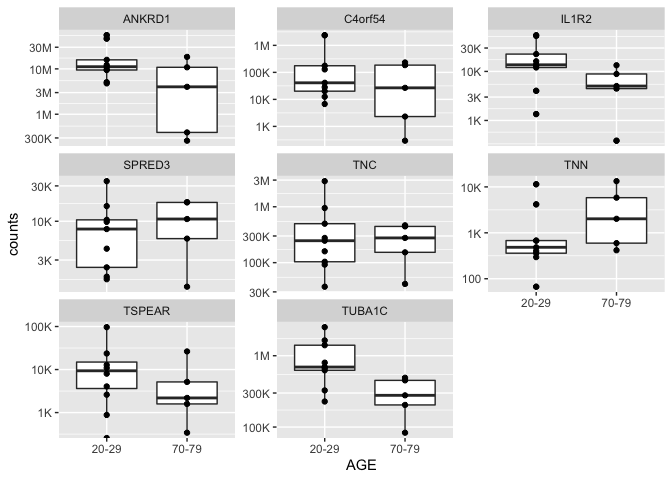
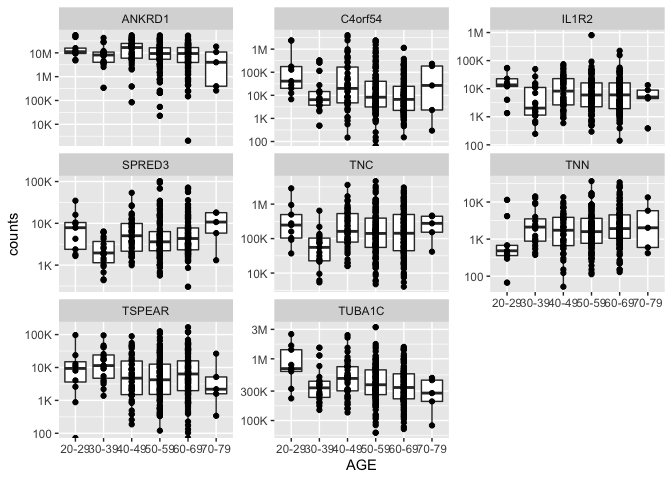
working join

diff --git a/GTEx/r4rnaseq-workshop.md b/GTEx/r4rnaseq-workshop.md
@@ -106,26 +106,69 @@ primarily for molecular assays including WGS, WES, and RNA-Seq.
 2.  Navigate to the GTEx folder.
 3.  Click `GTEx.Rproj` and click “Yes” to open up an Rproject. This will
     set the working directory to `~/GTEx/`.
-4.  Open the `r4rnaseq-workshop.R` file which contains all the commands
-    for today’s workshop. This contains all the commands we will build
-    today. This is your reference.
-5.  Open a new R Script by clicking **File > New File > R Script**. You
-    will type most commands for today’s lesson here and click “Run” to
-    send them to the console.
+4.  If you open the `r4rnaseq-workshop.R` file which contains all the
+    commands for today’s workshop, you can click through this and all
+    the commands should run successfully.
+5.  If you open a new R Script by clicking **File > New File > R
+    Script**, you can code along by typing out all the commands for
+    today’s lesson as I type them.
+
+Click “Run” to send commands from a script to the console or click
+command enter.
+
+### R is a calculator
+
+You can perform simple and advanced calculations in R.
+
+``` r
+2 + 2 * 100
+```
+
+    ## [1] 202
+
+``` r
+log(202)
+```
+
+    ## [1] 5.308268
+
+You can save variable and recall them later.
+
+``` r
+pval <- 0.05
+pval
+```
+
+    ## [1] 0.05
+
+``` r
+-log10(pval)
+```
+
+    ## [1] 1.30103
+
+You can save really long lists of things with a short, descriptive names
+that are easy to recall later.
+
+``` r
+favorite_genes <- c("BRCA1", "POMC", "GnRH", "MC4R", "FOS", "CNR1")
+favorite_genes
+```
+
+    ## [1] "BRCA1" "POMC"  "GnRH"  "MC4R"  "FOS"   "CNR1"
 
 ### Loading R packages
 
 Many of the functions we will use are pre-installed. The
-[**Tidyverse**](https://www.tidyverse.org/) is a collection of R
-packages that include functions, data, and documentation that provide
-more tools and capabilities when using R. You can install packages like
-`ggplot2` with the command `install.packages("ggplot2")`). It is a good
-idea to “comment out” this line of code by adding a `#` at the beginning
-so that you don’t re-install the package every time you run the script.
-For this workshop, the packages listed in the `.binder/environment.yml`
-file were pre-installed with Conda. For some reason, the tidyverse
-package doesn’t always install properly, so we installed each package
-individually.
+[Tidyverse](https://www.tidyverse.org/) is a collection of R packages
+that include functions, data, and documentation that provide more tools
+and capabilities when using R. You can install the popular data
+visualization package `ggplot2` with the command
+`install.packages("ggplot2")`). It is a good idea to “comment out” this
+line of code by adding a `#` at the beginning so that you don’t
+re-install the package every time you run the script. For this workshop,
+the packages listed in the `.binder/environment.yml` file were
+pre-installed with Conda.
 
 ``` r
 #install.packages("ggplot2")
@@ -133,7 +176,7 @@ individually.
 
 After installing packages, we need to load the functions and tools we
 want to use from the package with the `library()` command. Let’s load
-the `ggplot2` package which is a popular tool for data visualization.
+the `ggplot2` package.
 
 ``` r
 library(ggplot2)
@@ -163,10 +206,12 @@ description of the package and its functions.
 
 #### Key functions
 
-| Function             | Description                                 |
-|----------------------|---------------------------------------------|
-| `install.packages()` | An R function to install packages           |
-| `library()`          | The command used to load installed packages |
+| Function             | Description                                  |
+|----------------------|----------------------------------------------|
+| `<-`                 | The assignment variable                      |
+| `log10()`            | A built-in function for a log transformation |
+| `install.packages()` | An R function to install packages            |
+| `library()`          | The command used to load installed packages  |
 
 :::
 
@@ -385,6 +430,19 @@ head(results)
     ## A2ML1     0.35413535 -1.1667406  1.0788316 0.2840898578 0.52922642 -4.948617
     ## A2MP1     0.65764737 -0.7564399  3.2615528 0.0016630789 0.06067003 -1.358971
 
+``` r
+# without row.names
+results2 <- read.table("./data/GTEx_Heart_20-29_vs_30-39.tsv",  sep = "\t", header = TRUE )
+head(results2)
+```
+
+    ##          X       logFC    AveExpr          t      P.Value  adj.P.Val         B
+    ## 1     A1BG  0.10332788  1.3459363  0.3221575 0.7482217611 0.87480317 -5.672644
+    ## 2 A1BG-AS1  0.13609230 -0.2381928  0.6395041 0.5244264675 0.73078056 -5.345563
+    ## 3      A2M -0.01605178  9.7981987 -0.1132389 0.9101410387 0.95645802 -5.956689
+    ## 4  A2M-AS1  0.60505571  2.5392220  3.4884410 0.0008131523 0.05545654 -0.635100
+    ## 5    A2ML1  0.35413535 -1.1667406  1.0788316 0.2840898578 0.52922642 -4.948617
+    ## 6    A2MP1  0.65764737 -0.7564399  3.2615528 0.0016630789 0.06067003 -1.358971
 
 :::warning
 
@@ -650,38 +708,6 @@ summary(samples)
     ##  Mean   :0.8491  
     ##  3rd Qu.:1.0000  
     ##  Max.   :3.0000
-
-``` r
-str(results2)
-```
-
-    ## 'data.frame':    15529 obs. of  7 variables:
-    ##  $ X        : chr  "A1BG" "A1BG-AS1" "A2M" "A2M-AS1" ...
-    ##  $ logFC    : num  0.1033 0.1361 -0.0161 0.6051 0.3541 ...
-    ##  $ AveExpr  : num  1.346 -0.238 9.798 2.539 -1.167 ...
-    ##  $ t        : num  0.322 0.64 -0.113 3.488 1.079 ...
-    ##  $ P.Value  : num  0.748222 0.524426 0.910141 0.000813 0.28409 ...
-    ##  $ adj.P.Val: num  0.8748 0.7308 0.9565 0.0555 0.5292 ...
-    ##  $ B        : num  -5.673 -5.346 -5.957 -0.635 -4.949 ...
-
-``` r
-summary(results2)
-```
-
-    ##       X                 logFC              AveExpr             t           
-    ##  Length:15529       Min.   :-2.917546   Min.   :-2.303   Min.   :-4.64984  
-    ##  Class :character   1st Qu.:-0.131376   1st Qu.: 2.108   1st Qu.:-1.12926  
-    ##  Mode  :character   Median : 0.009261   Median : 4.171   Median : 0.07798  
-    ##                     Mean   : 0.026300   Mean   : 3.806   Mean   : 0.03410  
-    ##                     3rd Qu.: 0.170189   3rd Qu.: 5.586   3rd Qu.: 1.21902  
-    ##                     Max.   : 2.659235   Max.   :13.593   Max.   : 5.38745  
-    ##     P.Value            adj.P.Val             B         
-    ##  Min.   :0.0000008   Min.   :0.01209   Min.   :-6.250  
-    ##  1st Qu.:0.0568327   1st Qu.:0.22729   1st Qu.:-5.839  
-    ##  Median :0.2412433   Median :0.48246   Median :-5.306  
-    ##  Mean   :0.3345941   Mean   :0.49944   Mean   :-4.852  
-    ##  3rd Qu.:0.5772327   3rd Qu.:0.76952   3rd Qu.:-4.282  
-    ##  Max.   :0.9999816   Max.   :0.99998   Max.   : 5.635
 
 ``` r
 str(counts[1:5])
@@ -1361,14 +1387,13 @@ head(rownames(colData))
 
 ``` r
 colData_tidy <-  colData %>%
-  mutate(SAMPID = gsub("-", ".", SAMPID))  %>%
-  filter(AGE %in% c("20-29", "70-79")) 
+  mutate(SAMPID = gsub("-", ".", SAMPID))  
 rownames(colData_tidy) <- colData_tidy$SAMPID
 
-mycols <- colData_tidy %>% dplyr::pull(SAMPID)
+mycols <- rownames(colData_tidy)
 
 counts_tidy <- counts %>%
-  select(mycols)
+  select(all_of(mycols))
 
 head(rownames(colData_tidy) == colnames(counts_tidy))
 ```
@@ -1376,7 +1401,7 @@ head(rownames(colData_tidy) == colnames(counts_tidy))
     ## [1] TRUE TRUE TRUE TRUE TRUE TRUE
 
 ``` r
-counts_tidy_long <- counts %>%
+counts_tidy_long <- counts_tidy %>%
   select(all_of(mycols)) %>%
   mutate(Ensembl.gene.ID = rownames(.)) %>%
   separate(Ensembl.gene.ID, into = c("Ensembl.gene.ID", "version"), 
@@ -1402,11 +1427,11 @@ head(counts_tidy_long)
     ##   Ensembl.gene.ID Approved.name  Approved.symbol counts SAMPID SMTSD AGE   SEX  
     ##   <chr>           <chr>          <chr>            <dbl> <chr>  <chr> <chr> <chr>
     ## 1 ENSG00000148677 ankyrin repea… ANKRD1          5.54e7 GTEX.… Hear… 20-29 Fema…
-    ## 2 ENSG00000148677 ankyrin repea… ANKRD1          4.65e7 GTEX.… Hear… 20-29 Male 
-    ## 3 ENSG00000148677 ankyrin repea… ANKRD1          1.84e7 GTEX.… Hear… 70-79 Male 
-    ## 4 ENSG00000148677 ankyrin repea… ANKRD1          1.58e7 GTEX.… Hear… 20-29 Male 
-    ## 5 ENSG00000148677 ankyrin repea… ANKRD1          1.22e7 GTEX.… Hear… 20-29 Fema…
-    ## 6 ENSG00000148677 ankyrin repea… ANKRD1          1.12e7 GTEX.… Hear… 20-29 Fema…
+    ## 2 ENSG00000148677 ankyrin repea… ANKRD1          5.51e7 GTEX.… Hear… 40-49 Fema…
+    ## 3 ENSG00000148677 ankyrin repea… ANKRD1          5.47e7 GTEX.… Hear… 50-59 Male 
+    ## 4 ENSG00000148677 ankyrin repea… ANKRD1          5.35e7 GTEX.… Hear… 60-69 Fema…
+    ## 5 ENSG00000148677 ankyrin repea… ANKRD1          4.88e7 GTEX.… Hear… 60-69 Fema…
+    ## 6 ENSG00000148677 ankyrin repea… ANKRD1          4.87e7 GTEX.… Hear… 40-49 Fema…
     ## # … with 1 more variable: DTHHRDY <chr>
 
 ``` r
@@ -1424,7 +1449,7 @@ counts_tidy_long %>%
 
     ## Warning: Transformation introduced infinite values in continuous y-axis
 
-    ## Warning: Removed 1 rows containing non-finite values (stat_boxplot).
+    ## Warning: Removed 4 rows containing non-finite values (stat_boxplot).
 
 ![](./images/boxplot2-1.png)<!-- -->
 
@@ -1499,6 +1524,4 @@ R for RNA-seq are crated with the file `r4rnaseq-workshop.Rmd`.
 *Note: the source document
 [r4rnaseq-workshop.Rmd](https://github.com/nih-cfde/training-rstudio-binder/blob/data/GTEx/r4rnaseq-workshop.Rmd)
 was last modified 14 March, 2022.*
-
-------------------------------------------------------------------------
 
